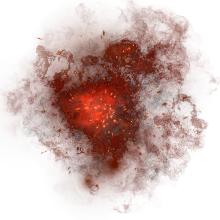
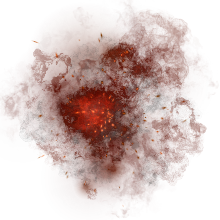
Added explosions, lives + optimisation

diff --git a/game.py b/game.py
@@ -80,9 +80,16 @@ def draw_health_bar(surface, x, y, health):
     pygame.draw.rect(surface, GREEN, fill_rect)
     pygame.draw.rect(surface, WHITE, outline_rect, 2)
 
+
+def draw_lives(surface, x, y, lives, img):
+    for i in range(lives):
+        img_rect = img.get_rect()
+        img_rect.x = x + 35 * i
+        img_rect.y = y
+        surface.blit(img, img_rect)
+
+
 # Draw text, used for the score
-
-
 def draw_text(surface, text, size, x, y):
     font = pygame.font.Font(font_name, size)
     text_surface = font.render(text, True, WHITE)
@@ -111,14 +118,26 @@ class Player(pygame.sprite.Sprite):
         self.velocity = 0
         self.flycount = 0
         self.health = 100
+        self.shoot_delay = 250
+        self.last_shot = pygame.time.get_ticks()
+        self.lives = 3
+        self.hidden = False
+        self.hide_timer = pygame.time.get_ticks()
 
     def update(self):
+        if self.hidden and pygame.time.get_ticks() - self.hide_timer > 1000:
+            self.hidden = False
+            self.rect.centerx = WIDTH / 2
+            self.rect.bottom = HEIGHT - 10
+
         self.velocity = 0
         keystate = pygame.key.get_pressed()
         if keystate[pygame.K_LEFT]:
             self.velocity = -5
         if keystate[pygame.K_RIGHT]:
             self.velocity = 5
+        if keystate[pygame.K_SPACE]:
+            self.shoot()
         self.rect.x += self.velocity
         if self.rect.right > WIDTH:
             self.rect.right = WIDTH
@@ -126,10 +145,35 @@ class Player(pygame.sprite.Sprite):
             self.rect.left = 0
 
     def shoot(self):
-        laser = PlayerLaser(self.rect.centerx, self.rect.top)
-        all_sprites.add(laser)
-        player_lasers.add(laser)
-        laser_sound.play()
+        now = pygame.time.get_ticks()
+        if now - self.last_shot > self.shoot_delay:
+            self.last_shot = now
+            laser = PlayerLaser(self.rect.centerx, self.rect.top)
+            all_sprites.add(laser)
+            player_lasers.add(laser)
+            laser_sound.play()
+
+    def hide(self):
+        # hide the player when dead
+        self.hidden = True
+        self.hide_timer = pygame.time.get_ticks()
+        self.rect.center = (WIDTH / 2, HEIGHT + 200)
+
+    def dead(self):
+        player_death_expl = Explosion(hit.rect.center, 'lg')
+        all_sprites.add(player_death_expl)
+        player.hide()
+        player.lives -= 1
+        player.health = 100
+
+    def isShot(self, size):
+        expl = Explosion(hit.rect.center, size)
+        all_sprites.add(expl)
+        if size == 'sm':
+            player.health -= 20
+        else:
+            player.health -= 40
+
 
 # Enemy class
 
@@ -231,21 +275,69 @@ class PlayerLaser(Laser):
         if self.rect.bottom < 0:
             self.kill()
 
+# Explosion class
+
+
+class Explosion(pygame.sprite.Sprite):
+    def __init__(self, center, size):
+        pygame.sprite.Sprite.__init__(self)
+        self.size = size
+        self.image = explosion_anim[self.size][0]
+        self.rect = self.image.get_rect()
+        self.rect.center = center
+        self.frame = 0
+        self.last_update = pygame.time.get_ticks()
+        self.frame_rate = 25
+
+    def update(self):
+        now = pygame.time.get_ticks()
+        if now - self.last_update > self.frame_rate:
+            self.last_update = now
+            self.frame += 1
+            if self.frame == len(explosion_anim[self.size]):
+                self.kill()
+            else:
+                center = self.rect.center
+                self.image = explosion_anim[self.size][self.frame]
+                self.rect = self.image.get_rect()
+                self.rect.center = center
+
 
 # Load images
 background = pygame.image.load(path.join(img_dir, 'spacebg.jpg')).convert()
 background_rect = background.get_rect()
 player_img = pygame.image.load(path.join(img_dir, 's1.png')).convert()
+player_img.set_colorkey(BLACK)
+mini_player_img = pygame.transform.scale(player_img, (25, 25))
 regular_enemy_img = pygame.image.load(
     path.join(img_dir, 'enemyShuttle1.png')).convert()
 upgraded_enemy_img = pygame.image.load(
     path.join(img_dir, 'enemyShuttle2.png')).convert()
-enemy_laser_img = pygame.image.load(path.join(img_dir, 'enemyLaser.png'))
-player_laser_img = pygame.image.load(path.join(img_dir, 'playerLaser.png'))
+enemy_laser_img = pygame.image.load(
+    path.join(img_dir, 'enemyLaser.png'))
+player_laser_img = pygame.image.load(
+    path.join(img_dir, 'playerLaser.png'))
+
+
+# Load explosion animation
+explosion_anim = {'lg': [],
+                  'rg': [],
+                  'sm': []}
+for i in range(9):
+    filename = 'e{}.png'.format(i)
+    img = pygame.image.load(path.join(img_dir, filename)).convert()
+    img.set_colorkey(BLACK)
+    img_lg = pygame.transform.scale((img), (42, 42))
+    explosion_anim['lg'].append(img_lg)
+    img_rg = pygame.transform.scale((img), (30, 30))
+    explosion_anim['rg'].append(img_rg)
+    img_sm = pygame.transform.scale((img), (20, 20))
+    explosion_anim['sm'].append(img_sm)
+
 
 # Load sounds
 player_exp_sound = pygame.mixer.Sound(path.join(sound_dir, 'playerExp.wav'))
-player_exp_sound.set_volume(0.1)
+player_exp_sound.set_volume(0.2)
 enemy_exp_sound = pygame.mixer.Sound(path.join(sound_dir, 'enemyExp.flac'))
 enemy_exp_sound.set_volume(0.7)
 laser_sound = pygame.mixer.Sound(path.join(sound_dir, 'laser.wav'))
@@ -261,7 +353,7 @@ enemy_lasers = pygame.sprite.Group()
 player = Player()
 all_sprites.add(player)
 
-# Spawn 7 enemies initially, 2 of them have to me upgraded enemies
+# Spawn 7 enemies initially, 2 of them have to be upgraded enemies
 for i in range(4):
     e = RegularEnemy()
     all_sprites.add(e)
@@ -285,48 +377,52 @@ while running:
         if event.type == pygame.QUIT:
             running = False
 
-        elif event.type == pygame.KEYDOWN:
-            if event.key == pygame.K_SPACE:
-                player.shoot()
-
         elif event.type == ENEMYSHOT:
             for enemy in enemies:
                 if type(enemy) == UpdgradedEnemy:
-                    if random.uniform(0, 1) < 0.4:
+                    if random.uniform(0, 1) < 0.5:
                         enemy.shoot()
 
     # Update sprites
     all_sprites.update()
 
-    # Check if the player is hit by an enemy laser
-    hits = pygame.sprite.spritecollide(
-        player, enemy_lasers, True, pygame.sprite.collide_circle)
-    for hit in hits:
-        player_exp_sound.play()
-        player.health -= 20
-        if player.health <= 0:
-            running = False
-
     hits = pygame.sprite.groupcollide(enemies, player_lasers, True, True)
 
-    # Check if an enemy is hit by a players laser
+    # Check if a player hit an enemy
     for hit in hits:
         enemy_exp_sound.play()
         if type(hit) == RegularEnemy:
             score += 10
         else:
             score += 20
+        expl = Explosion(hit.rect.center, 'lg')
+        all_sprites.add(expl)
         spawn_random_enemy()
+
+    # Check if the player is hit by an enemy laser
+    hits = pygame.sprite.spritecollide(
+        player, enemy_lasers, True, pygame.sprite.collide_circle)
+    for hit in hits:
+        player_exp_sound.play()
+        if player.health <= 0:
+            player.dead()
+        else:
+            player.isShot('sm')
 
     # check if an enemy hit the player
     hits = pygame.sprite.spritecollide(
         player, enemies, True, pygame.sprite.collide_circle)
     for hit in hits:
         player_exp_sound.play()
-        player.health -= 40
         if player.health <= 0:
-            running = False
+            player.dead()
+        else:
+            player.isShot('rg')
+
         spawn_random_enemy()
+
+    if player.lives < 1 and not player_death_expl.alive():
+        running = False
 
     # Render
     window.fill(BLACK)
@@ -334,6 +430,7 @@ while running:
     all_sprites.draw(window)
     draw_text(window, str(score), 22, WIDTH / 2, 10)
     draw_health_bar(window, WIDTH-205, 5, player.health)
+    draw_lives(window, WIDTH-205, 40, player.lives, mini_player_img)
     pygame.display.flip()
 
 pygame.quit()
